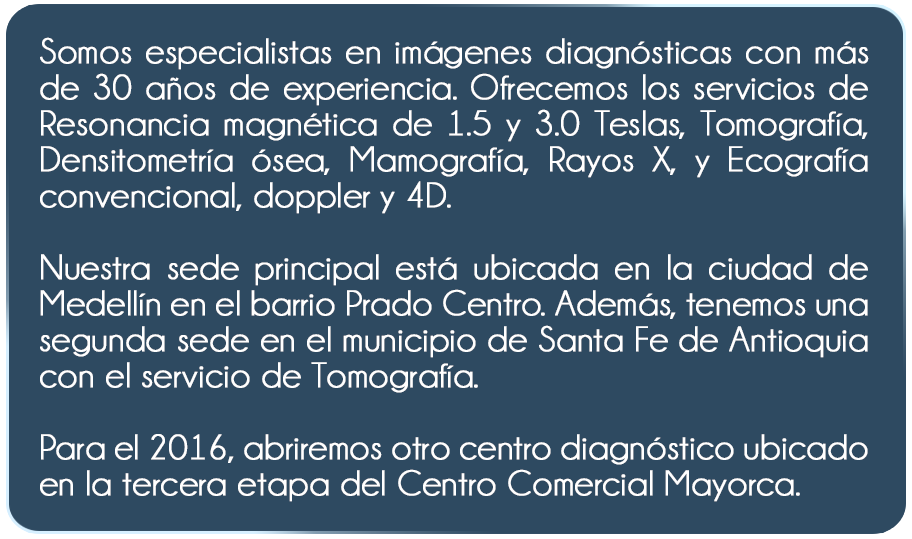
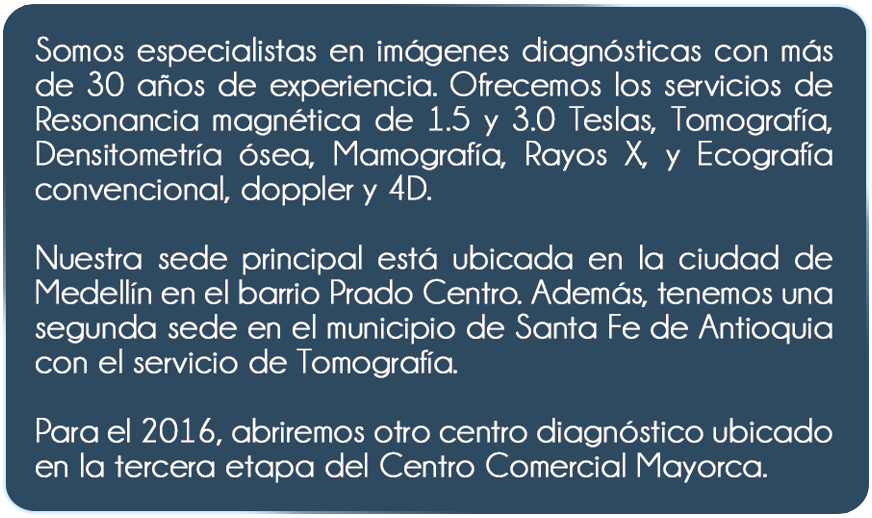
quienes somos

Changed region(s): [[0.0, 0.0, 0.9599, 0.9884], [0.9599, 0.0, 1.0, 0.9575], [0.031, 0.9575, 0.9908, 1.0]]

diff --git a/css/style.css b/css/style.css
@@ -774,11 +774,10 @@
 }
 
 .logo {
-  -moz-animation: play 1.8s steps(43);
-  -ms-animation: play 1.8s steps(43);
-  -o-animation: play 1.8s steps(43);
-  -webkit-animation: play 1.8s steps(43) forwards;
   -webkit-animation-delay: 0.1s;
+  -webkit-animation: play 1.8s steps(43) forwards;
+  animation-delay: 0.1s;
+  animation: play 1.8s steps(43) forwards;
   background-position: 0 0;
   background: url('http://i.imgur.com/1QwNz2R.png') !important;
   opacity: 0;
@@ -881,23 +880,23 @@
 }
 
 .content001, .content002, .content003, .content004, .content005 {
-	background: rgba(3, 36, 65, 0.8) !important;
-	border-radius: 50px !important;
-  	padding: 60px !important;
 	-webkit-transform: translateX(1000px);
 	-webkit-transition: -webkit-transform 0.4s;
-	position: absolute;
+	background: rgba(3, 36, 65, 0.8) !important;
+	border-radius: 50px !important;
 	bottom: 0;
-	top: 0;
 	left: 0;
-	right: 0;
 	margin: auto !important;
+	padding: 0 !important;
+	position: absolute;
+	right: 0;
+	top: 0;
 }
 
 .content001 {
 	background: url('../img/2_3/quienes_somos.png') no-repeat !important;
-	width: 912px !important;
-	height: 539px !important;
+	width: 872px !important;
+	height: 518px !important;
 }
 
 .content002 {
